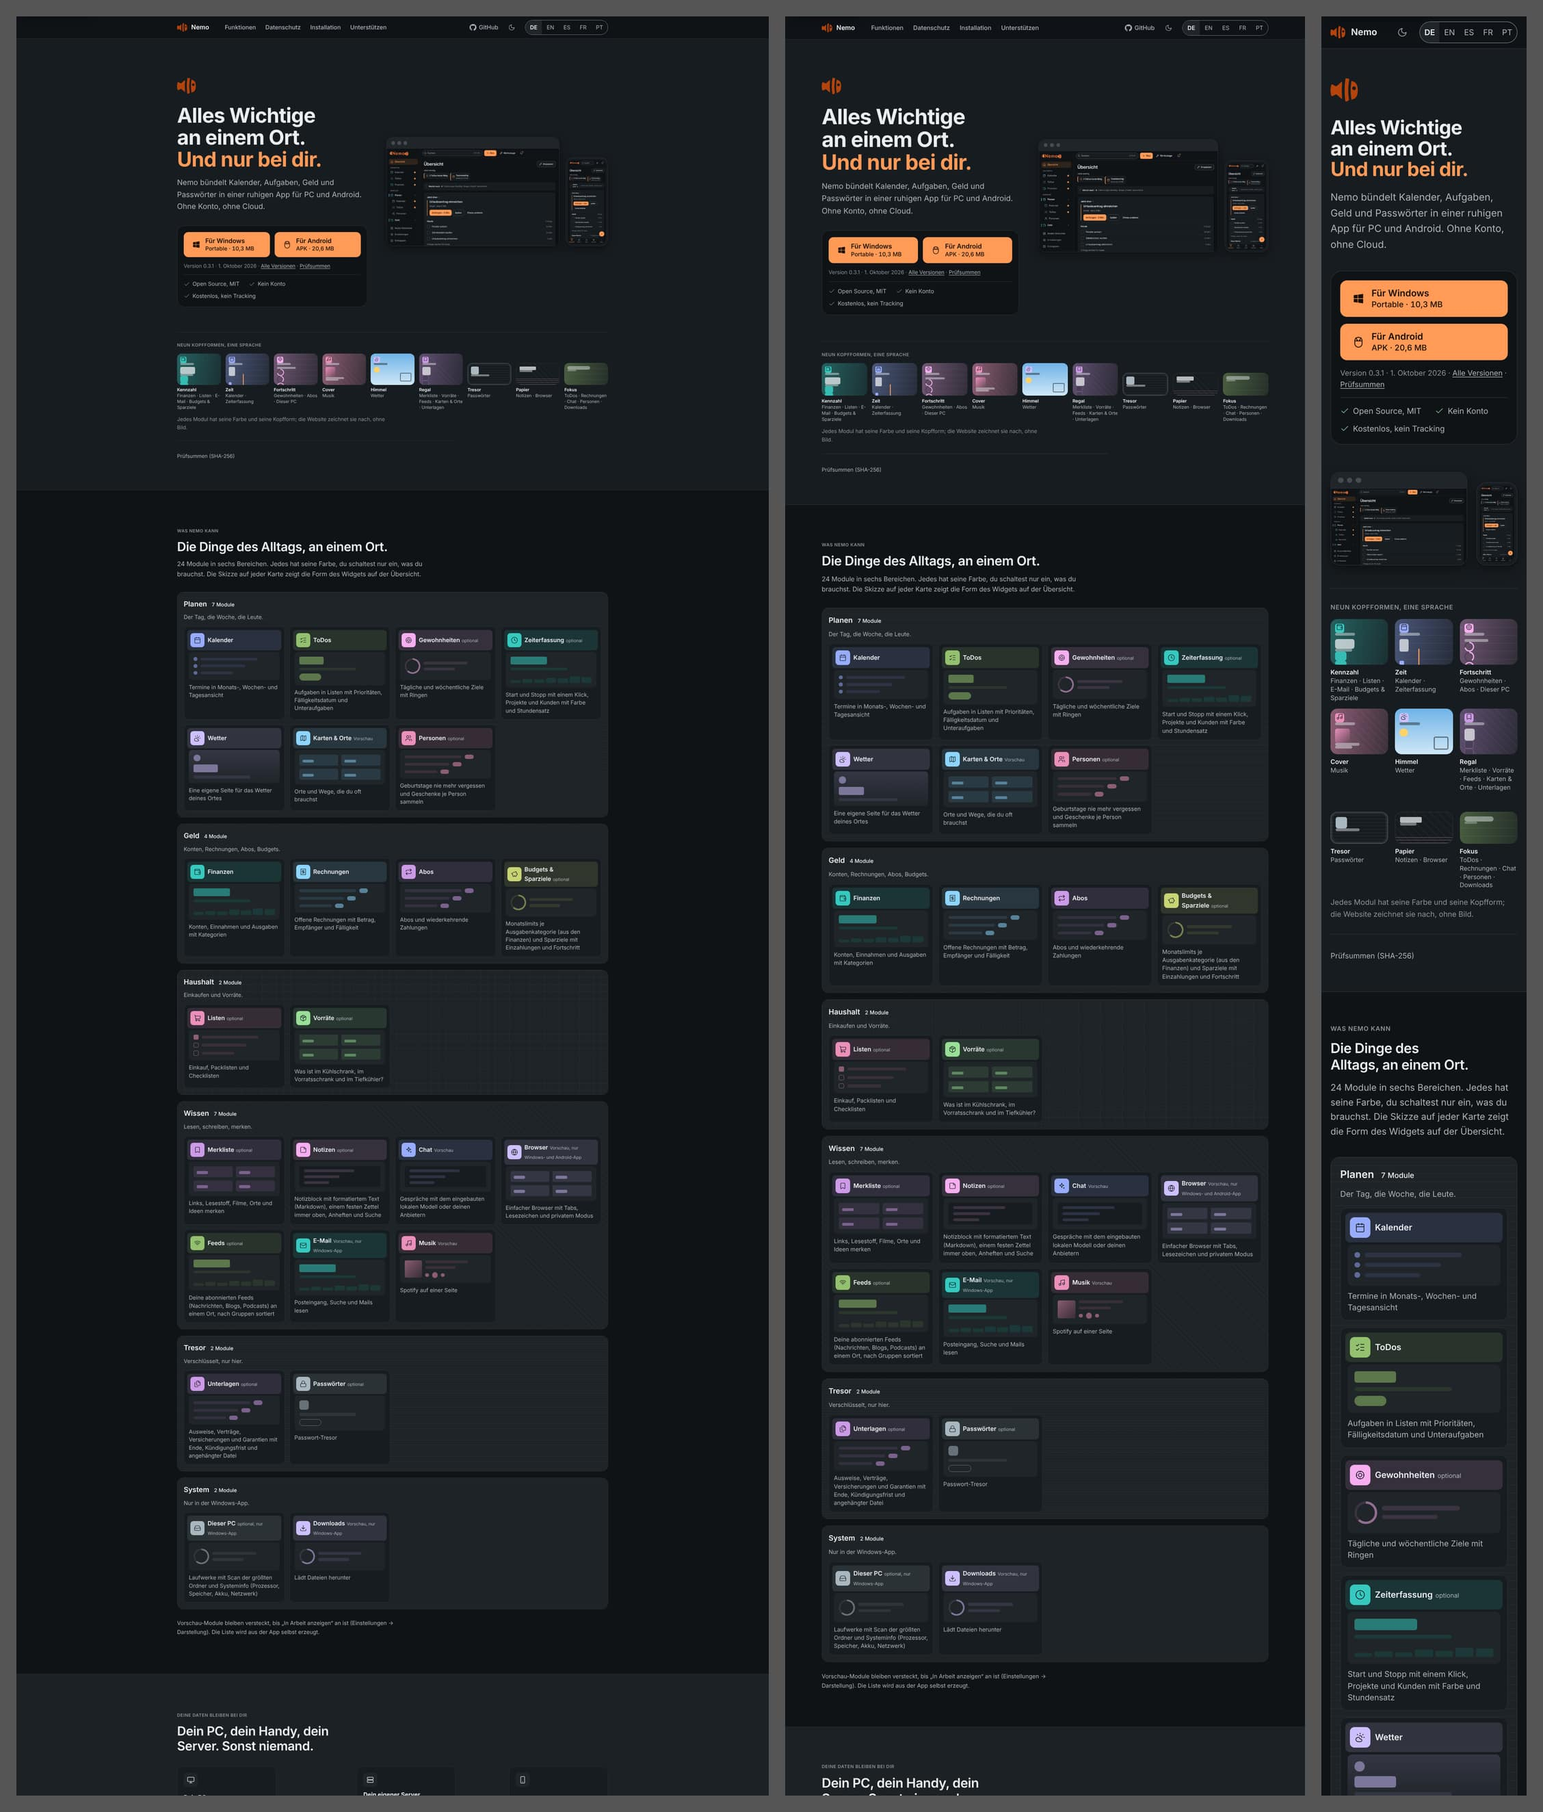
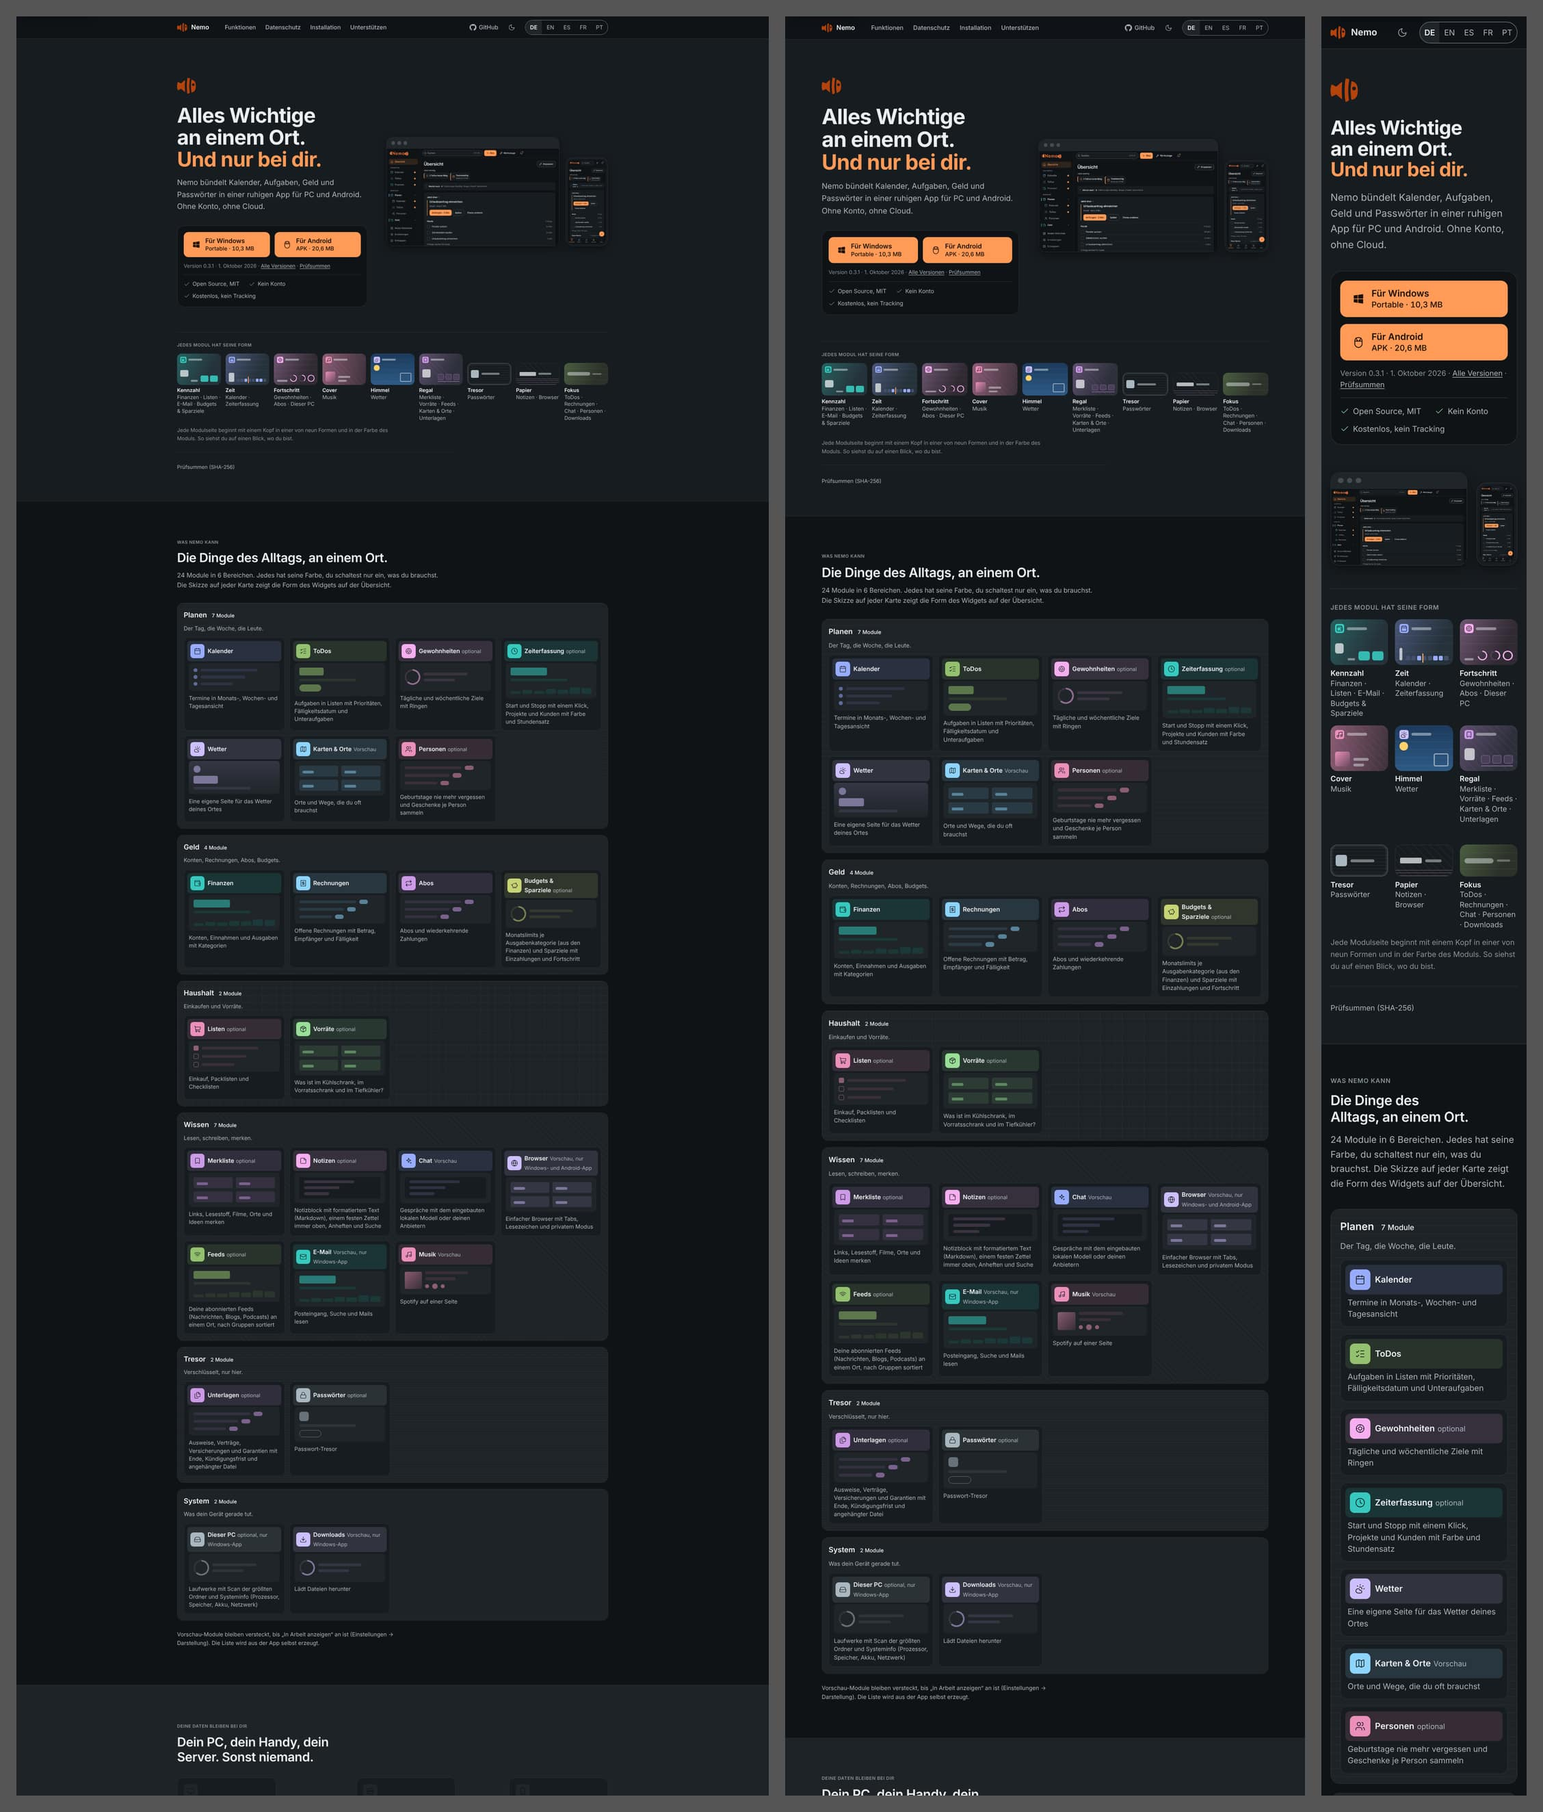
fix(site): council round 1 – dark Lighthouse run really dark, head strip rows, visitor wording, phone frame ratio, catalogue guards

diff --git a/site/src/i18n/fr.ts b/site/src/i18n/fr.ts
@@ -46,9 +46,9 @@ export const fr = {
     ],
     more: 'Et aussi : notes, listes, signets, provisions, personnes, habitudes, suivi du temps, météo, nettoyage du PC, un chat avec un modèle local (aperçu). IA seulement si vous le souhaitez. L’appli parle allemand, anglais, espagnol, français et portugais (Brésil).',
     // Area blocks and module cards (identity v3, docs/design/site/ROUND-4-IDENTITY-V3.md).
-    intro: (n: number) => `${n} modules en six domaines. Chacun a sa couleur ; vous n’activez que ce qu’il vous faut. Le croquis sur chaque carte montre la forme de son widget sur la vue d’ensemble.`,
+    intro: (n: number, a: number) => `${n} modules en ${a} domaines. Chacun a sa couleur ; vous n’activez que ce qu’il vous faut. Le croquis sur chaque carte montre la forme de son widget sur la vue d’ensemble.`,
     count: (n: number) => (n === 1 ? '1 module' : `${n} modules`),
-    areas: { plan: 'La journée, la semaine, les gens.', money: 'Comptes, factures, abonnements, budgets.', household: 'Courses et provisions.', knowledge: 'Lire, écrire, retenir.', vault: 'Chiffré, seulement ici.', system: 'Seulement dans l’appli Windows.' },
+    areas: { plan: 'La journée, la semaine, les gens.', money: 'Comptes, factures, abonnements, budgets.', household: 'Courses et provisions.', knowledge: 'Lire, écrire, retenir.', vault: 'Chiffré, seulement ici.', system: 'Ce que fait votre appareil.' },
     modules: {
       summary: (n: number) => `Les ${n} modules`,
       status: { default: 'activé par défaut', optional: 'facultatif', preview: 'aperçu' },
@@ -57,8 +57,8 @@ export const fr = {
     },
   },
   heads: {
-    eyebrow: 'Neuf formes d’en-tête, un langage',
-    note: 'Chaque module a sa couleur et sa forme d’en-tête ; le site les dessine, sans image.',
+    eyebrow: 'Chaque module a sa forme',
+    note: 'Chaque page de module commence par un en-tête dans l’une des neuf formes et dans la couleur du module : vous voyez d’un coup d’œil où vous êtes.',
     names: { kennzahl: 'Chiffre', zeit: 'Temps', fortschritt: 'Progression', cover: 'Pochette', himmel: 'Ciel', regal: 'Étagère', tresor: 'Coffre', schreib: 'Papier', fokus: 'Focus' },
   },
   data: {
@@ -88,6 +88,7 @@ export const fr = {
     ],
     honest: 'Nemo est développée en pensant au TDAH et aide à démarrer et à garder le fil. Ce n’est pas un traitement et elle n’en promet pas. Chaque aide peut être désactivée séparément.',
     shotAlt: 'Détail de la vue d’ensemble : la carte « ensuite » avec « commencer · 5 min », « plus tard » et « autre chose »',
+    phoneAlt: 'La vue d’ensemble sur le téléphone : « important maintenant » et la carte « ensuite » avec la première étape et la durée',
   },
   compare: {
     eyebrow: 'Comparaison',

diff --git a/site/src/i18n/de.ts b/site/src/i18n/de.ts
@@ -46,9 +46,9 @@ export const de = {
     ],
     more: 'Außerdem: Notizen, Listen, Merkliste, Vorräte, Personen, Gewohnheiten, Zeiterfassung, Wetter, PC aufräumen, ein Chat mit lokalem Modell (Vorschau). KI nur, wenn du willst. Die App gibt es auf Deutsch, Englisch, Spanisch, Französisch und Portugiesisch (Brasilien).',
     // Area blocks and module cards (identity v3, docs/design/site/ROUND-4-IDENTITY-V3.md).
-    intro: (n: number) => `${n} Module in sechs Bereichen. Jedes hat seine Farbe, du schaltest nur ein, was du brauchst. Die Skizze auf jeder Karte zeigt die Form des Widgets auf der Übersicht.`,
+    intro: (n: number, a: number) => `${n} Module in ${a} Bereichen. Jedes hat seine Farbe, du schaltest nur ein, was du brauchst. Die Skizze auf jeder Karte zeigt die Form des Widgets auf der Übersicht.`,
     count: (n: number) => (n === 1 ? '1 Modul' : `${n} Module`),
-    areas: { plan: 'Der Tag, die Woche, die Leute.', money: 'Konten, Rechnungen, Abos, Budgets.', household: 'Einkaufen und Vorräte.', knowledge: 'Lesen, schreiben, merken.', vault: 'Verschlüsselt, nur hier.', system: 'Nur in der Windows-App.' },
+    areas: { plan: 'Der Tag, die Woche, die Leute.', money: 'Konten, Rechnungen, Abos, Budgets.', household: 'Einkaufen und Vorräte.', knowledge: 'Lesen, schreiben, merken.', vault: 'Verschlüsselt, nur hier.', system: 'Was dein Gerät gerade tut.' },
     modules: {
       summary: (n: number) => `Alle ${n} Module`,
       status: { default: 'standardmäßig an', optional: 'optional', preview: 'Vorschau' },
@@ -57,8 +57,8 @@ export const de = {
     },
   },
   heads: {
-    eyebrow: 'Neun Kopfformen, eine Sprache',
-    note: 'Jedes Modul hat seine Farbe und seine Kopfform; die Website zeichnet sie nach, ohne Bild.',
+    eyebrow: 'Jedes Modul hat seine Form',
+    note: 'Jede Modulseite beginnt mit einem Kopf in einer von neun Formen und in der Farbe des Moduls. So siehst du auf einen Blick, wo du bist.',
     names: { kennzahl: 'Kennzahl', zeit: 'Zeit', fortschritt: 'Fortschritt', cover: 'Cover', himmel: 'Himmel', regal: 'Regal', tresor: 'Tresor', schreib: 'Papier', fokus: 'Fokus' },
   },
   data: {
@@ -88,6 +88,7 @@ export const de = {
     ],
     honest: 'Nemo ist mit ADHS im Blick entwickelt und hilft beim Anfangen und Dranbleiben. Es ist keine Behandlung und verspricht keine. Jede Hilfe lässt sich einzeln abschalten.',
     shotAlt: 'Ausschnitt der Übersicht: die Karte „Jetzt dran“ mit „Anfangen · 5 Min“, „Später“ und „Etwas anderes“',
+    phoneAlt: 'Die Übersicht auf dem Handy: „Jetzt wichtig“ und die Karte „Jetzt dran“ mit erstem Schritt und Dauer',
   },
   compare: {
     eyebrow: 'Vergleich',

diff --git a/site/src/i18n/es.ts b/site/src/i18n/es.ts
@@ -46,9 +46,9 @@ export const es = {
     ],
     more: 'Además: notas, listas, marcadores, despensa, personas, hábitos, registro de tiempo, el tiempo, limpieza del PC, un chat con un modelo local (vista previa). IA solo si tú quieres. La app habla alemán, inglés, español, francés y portugués (Brasil).',
     // Area blocks and module cards (identity v3, docs/design/site/ROUND-4-IDENTITY-V3.md).
-    intro: (n: number) => `${n} módulos en seis áreas. Cada uno tiene su color; activa solo lo que necesitas. El boceto de cada tarjeta muestra la forma de su widget en el resumen.`,
+    intro: (n: number, a: number) => `${n} módulos en ${a} áreas. Cada uno tiene su color; activa solo lo que necesitas. El boceto de cada tarjeta muestra la forma de su widget en el resumen.`,
     count: (n: number) => (n === 1 ? '1 módulo' : `${n} módulos`),
-    areas: { plan: 'El día, la semana, la gente.', money: 'Cuentas, facturas, suscripciones, presupuestos.', household: 'Compras y despensa.', knowledge: 'Leer, escribir, recordar.', vault: 'Cifrado, solo aquí.', system: 'Solo en la app de Windows.' },
+    areas: { plan: 'El día, la semana, la gente.', money: 'Cuentas, facturas, suscripciones, presupuestos.', household: 'Compras y despensa.', knowledge: 'Leer, escribir, recordar.', vault: 'Cifrado, solo aquí.', system: 'Qué hace tu dispositivo.' },
     modules: {
       summary: (n: number) => `Los ${n} módulos`,
       status: { default: 'activado por defecto', optional: 'opcional', preview: 'vista previa' },
@@ -57,8 +57,8 @@ export const es = {
     },
   },
   heads: {
-    eyebrow: 'Nueve formas de cabecera, un lenguaje',
-    note: 'Cada módulo tiene su color y su forma de cabecera; la web los dibuja, sin imagen.',
+    eyebrow: 'Cada módulo tiene su forma',
+    note: 'Cada página de módulo empieza con una cabecera en una de nueve formas y en el color del módulo; así ves de un vistazo dónde estás.',
     names: { kennzahl: 'Cifra', zeit: 'Tiempo', fortschritt: 'Progreso', cover: 'Portada', himmel: 'Cielo', regal: 'Estante', tresor: 'Caja fuerte', schreib: 'Papel', fokus: 'Foco' },
   },
   data: {
@@ -88,6 +88,7 @@ export const es = {
     ],
     honest: 'Nemo se desarrolla pensando en el TDAH y ayuda a empezar y a no perder el hilo. No es un tratamiento ni promete serlo. Cada ayuda se puede desactivar por separado.',
     shotAlt: 'Detalle del resumen: la tarjeta «lo siguiente» con «empezar · 5 min», «más tarde» y «otra cosa»',
+    phoneAlt: 'El resumen en el móvil: «importante ahora» y la tarjeta «lo siguiente» con el primer paso y la duración',
   },
   compare: {
     eyebrow: 'Comparación',

diff --git a/site/src/i18n/pt.ts b/site/src/i18n/pt.ts
@@ -46,9 +46,9 @@ export const pt = {
     ],
     more: 'Também: notas, listas, marcadores, despensa, pessoas, hábitos, controle de tempo, tempo, limpeza do PC, um chat com um modelo local (prévia). IA só se você quiser. O app fala alemão, inglês, espanhol, francês e português (Brasil).',
     // Area blocks and module cards (identity v3, docs/design/site/ROUND-4-IDENTITY-V3.md).
-    intro: (n: number) => `${n} módulos em seis áreas. Cada um tem sua cor; você ativa só o que precisa. O esboço em cada cartão mostra a forma do seu widget na visão geral.`,
+    intro: (n: number, a: number) => `${n} módulos em ${a} áreas. Cada um tem sua cor; você ativa só o que precisa. O esboço em cada cartão mostra a forma do seu widget na visão geral.`,
     count: (n: number) => (n === 1 ? '1 módulo' : `${n} módulos`),
-    areas: { plan: 'O dia, a semana, as pessoas.', money: 'Contas, faturas, assinaturas, orçamentos.', household: 'Compras e despensa.', knowledge: 'Ler, escrever, lembrar.', vault: 'Criptografado, só aqui.', system: 'Só no app do Windows.' },
+    areas: { plan: 'O dia, a semana, as pessoas.', money: 'Contas, faturas, assinaturas, orçamentos.', household: 'Compras e despensa.', knowledge: 'Ler, escrever, lembrar.', vault: 'Criptografado, só aqui.', system: 'O que seu dispositivo está fazendo.' },
     modules: {
       summary: (n: number) => `Todos os ${n} módulos`,
       status: { default: 'ligado por padrão', optional: 'opcional', preview: 'prévia' },
@@ -57,8 +57,8 @@ export const pt = {
     },
   },
   heads: {
-    eyebrow: 'Nove formas de cabeçalho, uma linguagem',
-    note: 'Cada módulo tem sua cor e sua forma de cabeçalho; o site os desenha, sem imagem.',
+    eyebrow: 'Cada módulo tem sua forma',
+    note: 'Cada página de módulo começa com um cabeçalho em uma de nove formas e na cor do módulo; assim você vê de relance onde está.',
     names: { kennzahl: 'Número', zeit: 'Tempo', fortschritt: 'Progresso', cover: 'Capa', himmel: 'Céu', regal: 'Estante', tresor: 'Cofre', schreib: 'Papel', fokus: 'Foco' },
   },
   data: {
@@ -88,6 +88,7 @@ export const pt = {
     ],
     honest: 'O Nemo é desenvolvido pensando no TDAH e ajuda a começar e a manter o fio. Não é um tratamento e não promete ser. Cada recurso pode ser desligado separadamente.',
     shotAlt: 'Detalhe da visão geral: o cartão “a seguir” com “começar · 5 min”, “mais tarde” e “outra coisa”',
+    phoneAlt: 'A visão geral no celular: “importante agora” e o cartão “a seguir” com o primeiro passo e a duração',
   },
   compare: {
     eyebrow: 'Comparação',

diff --git a/site/src/i18n/en.ts b/site/src/i18n/en.ts
@@ -46,9 +46,9 @@ export const en = {
     ],
     more: 'Also: notes, lists, bookmarks, pantry, people, habits, time tracking, weather, PC clean-up, a chat with a local model (preview). AI only if you want it. The app speaks German, English, Spanish, French and Portuguese (Brazil).',
     // Area blocks and module cards (identity v3, docs/design/site/ROUND-4-IDENTITY-V3.md).
-    intro: (n: number) => `${n} modules in six areas. Each has its colour; you turn on only what you need. The sketch on every card shows the shape of its widget on the overview.`,
+    intro: (n: number, a: number) => `${n} modules in ${a} areas. Each has its colour; you turn on only what you need. The sketch on every card shows the shape of its widget on the overview.`,
     count: (n: number) => (n === 1 ? '1 module' : `${n} modules`),
-    areas: { plan: 'The day, the week, the people.', money: 'Accounts, invoices, subscriptions, budgets.', household: 'Shopping and supplies.', knowledge: 'Read, write, remember.', vault: 'Encrypted, only here.', system: 'Windows app only.' },
+    areas: { plan: 'The day, the week, the people.', money: 'Accounts, invoices, subscriptions, budgets.', household: 'Shopping and supplies.', knowledge: 'Read, write, remember.', vault: 'Encrypted, only here.', system: 'What your device is up to.' },
     modules: {
       summary: (n: number) => `All ${n} modules`,
       status: { default: 'on by default', optional: 'optional', preview: 'preview' },
@@ -57,8 +57,8 @@ export const en = {
     },
   },
   heads: {
-    eyebrow: 'Nine head shapes, one language',
-    note: 'Every module has its colour and its head shape; the website draws them, no picture needed.',
+    eyebrow: 'Every module has its shape',
+    note: 'Every module page starts with a head in one of nine shapes and in the module’s colour, so you see at a glance where you are.',
     names: { kennzahl: 'Figure', zeit: 'Time', fortschritt: 'Progress', cover: 'Cover', himmel: 'Sky', regal: 'Shelf', tresor: 'Vault', schreib: 'Paper', fokus: 'Focus' },
   },
   data: {
@@ -88,6 +88,7 @@ export const en = {
     ],
     honest: 'Nemo is developed with ADHD in mind and helps with starting and staying on track. It is not a treatment and does not promise one. Every aid can be switched off individually.',
     shotAlt: 'Detail of the overview: the “up next” card with “start · 5 min”, “later” and “something else”',
+    phoneAlt: 'The overview on the phone: “important now” and the “up next” card with a first step and duration',
   },
   compare: {
     eyebrow: 'Comparison',

diff --git a/site/src/styles/identity.css b/site/src/styles/identity.css
@@ -70,14 +70,19 @@
 [data-hue2='slate'] {
   --module-color-2: var(--mod-slate);
 }
-/* Resolved where --module-color exists: the flat tint of a card head (widget zone) and the gradient of a head band. */
+/* Resolved where --module-color exists (the app's block, minus the chart series): head gradient and flat card tint. */
 [data-hue] {
-  --head-flat: color-mix(in srgb, var(--module-color) var(--widget-tint), var(--surface));
   --head-gradient: linear-gradient(
-    100deg,
+    118deg,
     color-mix(in srgb, var(--module-color) var(--head-tint-0), var(--surface)) 0%,
-    color-mix(in srgb, var(--module-color-2, var(--module-color)) var(--head-tint-1), var(--surface)) 100%
+    color-mix(
+        in srgb,
+        var(--module-color-2, var(--module-color)) var(--head-tint-1),
+        var(--surface)
+      )
+      72%
   );
+  --head-flat: color-mix(in srgb, var(--module-color) 14%, var(--surface));
 }
 /* The icon plate: the module's one solid spot of colour; the surface colour draws the icon (HuePlate in the app). */
 .plate {
@@ -101,10 +106,6 @@
   :root:not([data-theme='light']) .plate {
     color: var(--bg);
   }
-}
-:root[data-theme='dark'] .plate.neutral,
-:root:not([data-theme='light']) .plate.neutral {
-  color: var(--text);
 }
 /* Area patterns, copied from the app (plan lines, money dots, household grid, knowledge diagonals, vault rules, system none). */
 [data-area='plan'] {

diff --git a/site/src/styles/global.css b/site/src/styles/global.css
@@ -206,7 +206,7 @@ section.block {
 /* Every second section is a tinted band; the hairline separates the rest. */
 section.band {
   /* Neutral tint of the surface (the app's group blocks, F07), never a colour field; --band lets labels sit on it. */
-  --band: color-mix(in srgb, var(--text-3) 4%, var(--surface));
+  --band: color-mix(in srgb, var(--text-3) var(--group-tint), var(--surface));
   background: var(--band);
   border-block: 1px solid var(--border);
 }
@@ -229,7 +229,8 @@ section.band + section.band {
   border-radius: var(--radius-md);
   background: var(--surface);
 }
-/* Screenshot frames (components/Shot.astro): a thin window bar for the desktop, a bezel for the phone. No perspective. */
+/* Screenshot frames (components/Shot.astro): a thin window bar for the desktop, a bezel for the phone. No perspective;
+   the picture's own size sets the ratio, so renewed screenshots fit without a change here. */
 .frame {
   border-radius: var(--radius-lg);
   overflow: hidden;
@@ -269,13 +270,10 @@ section.band + section.band {
   border-radius: 0.85rem;
   overflow: hidden;
   background: var(--bg);
-  aspect-ratio: 412 / 915;
 }
 .phone img {
   width: 100%;
-  height: 100%;
-  object-fit: cover;
-  object-position: top;
+  height: auto;
 }
 /* One image per theme; the hidden one is lazy and never requested. */
 .shot-light {

diff --git a/site/src/styles/tokens.css b/site/src/styles/tokens.css
@@ -87,6 +87,10 @@
   --pattern-head: 0.06;
   --pattern-widget: 0.04;
   --pattern-ink: var(--text);
+  /* Sky wash of the weather head (identity "himmel"): day sky and sun. */
+  --sky-day-0: #6fb3e8;
+  --sky-day-1: #cfe7f7;
+  --sky-sun: #ffd36a;
   color-scheme: light;
 }
 
@@ -119,6 +123,8 @@
   --mod-violet: #f7aef0;
   --mod-orchid: #eb90ba;
   --mod-slate: #a9b7c0;
+  --sky-day-0: #1c3a5c;
+  --sky-day-1: #2e5a86;
   color-scheme: dark;
 }
 
@@ -152,6 +158,8 @@
     --mod-violet: #f7aef0;
     --mod-orchid: #eb90ba;
     --mod-slate: #a9b7c0;
+    --sky-day-0: #1c3a5c;
+    --sky-day-1: #2e5a86;
     color-scheme: dark;
   }
 }
